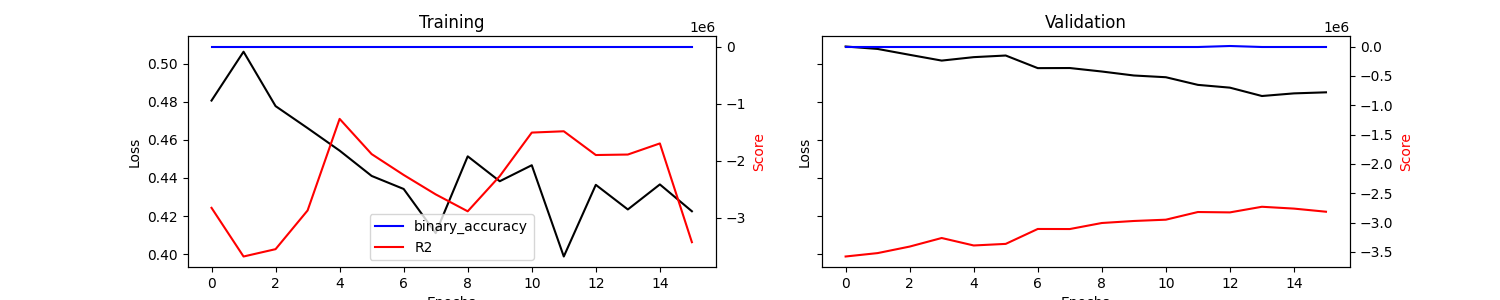
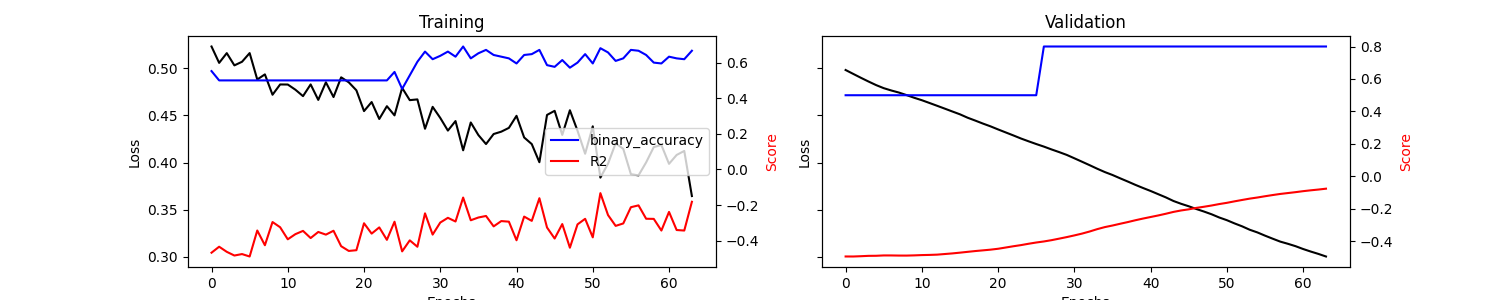
update

diff --git a/gen_training_data.py b/gen_training_data.py
@@ -6,10 +6,11 @@ import networkx as nx
 from sklearn.metrics import explained_variance_score
 from tensorflow.keras import models, layers, utils, backend as K
 import tensorflow.keras
+import tensorflow as tf
 import matplotlib.pyplot as plt
 import matplotlib.cm as cmap
 import shap
-
+import random
 
 def readData(datafiles={}):
     """
@@ -139,19 +140,20 @@ def experimentPartOneWrapper():
     #print(targetdata)
     return concatDF, splitDF, inputdata, targetdata
 
-'''
-Use shap to build an explainer.
-:parameter
-    :param model: model instance (after fitting)
-    :param X_names: list
-    :param X_instance: array of size n x 1 (n,)
-    :param X_train: array - if None the model is simple machine learning, if not None then it's a deep learning model
-    :param task: string - "classification", "regression"
-    :param top: num - top features to display
-:return
-    dtf with explanations
-'''
+
 def explainer_shap(model, X_names, X_instance, X_train=None, task="classification", top=10):
+    '''
+    Use shap to build an explainer.
+    :parameter
+        :param model: model instance (after fitting)
+        :param X_names: list
+        :param X_instance: array of size n x 1 (n,)
+        :param X_train: array - if None the model is simple machine learning, if not None then it's a deep learning model
+        :param task: string - "classification", "regression"
+        :param top: num - top features to display
+    :return
+        dtf with explanations
+    '''
     ## create explainer
     ### machine learning
     if X_train is None:
@@ -172,13 +174,13 @@ def explainer_shap(model, X_names, X_instance, X_train=None, task="classificatio
         shap.waterfall_plot(explainer.expected_value[0], shap_values, 
                             features=X_instance, feature_names=X_names, max_display=top)
 
-# define metrics
 def R2(y, y_hat):
     ss_res = K.sum(K.square(y - y_hat))
     ss_tot = K.sum(K.square(y - K.mean(y)))
     return 1 - ss_res / (ss_tot + K.epsilon())
 
-if __name__ == "__main__":
+def experimentPartTwoWrapper():
+    """Simple perceptron"""
     # prepare data
     concatDF, splitDF, inputdata, targetdata = experimentPartOneWrapper()
     # prepare network
@@ -346,3 +348,159 @@ if __name__ == "__main__":
     for tn in answers.keys():
         if sum(answers[tn][2]) > 0:
             print(answers[tn])
+
+def xorTutorial():
+    import tensorflow.compat.v1 as tf
+    tf.disable_v2_behavior()
+    # input X vector
+    X = [[0, 0], [0, 1], [1, 0], [1, 1]]
+    # output Y vector
+    Y = [[0], [1], [1], [0]]
+    
+    # Placeholders for input and output
+    x = tf.placeholder(tf.float32, shape=[4,2])
+    y = tf.placeholder(tf.float32, shape=[4,1])
+    
+    # W matrix
+    W1 = tf.Variable([[1.0, 0.0], [1.0, 0.0]], shape=[2,2])
+    W2 = tf.Variable([[0.0], [1.0]], shape=[2,1])
+    
+    # Biases
+    B1 = tf.Variable([0.0, 0.0], shape=[2])
+    B2 = tf.Variable([0.0], shape=1)
+    
+    # Hidden layer and outout layer
+    output =tf.sigmoid(tf.matmul(tf.sigmoid(tf.matmul(x, W1) + B1), W2) + B2)
+    
+    # error estimation
+    e = tf.reduce_mean(tf.squared_difference(y, output))
+    train = tf.train.GradientDescentOptimizer(0.1).minimize(e)
+    
+    init = tf.global_variables_initializer()
+    sess = tf.Session()
+    sess.run(init)
+    
+    for i in range (100001):
+        error = sess.run(train, feed_dict={x: X, y: Y})
+        if i % 10000 == 0:
+            print('\nEpoch: ' + str(i))
+            print('\nError: ' + str(sess.run(e, feed_dict={x: X, y: Y})))
+            for el in sess.run(output, feed_dict={x: X, y: Y}):
+                print('    ',el)
+    sess.close()
+    
+    print ("Complete")
+
+
+def xorDeepNN():
+    import numpy as np
+    # input X vector
+    X1 = pd.DataFrame(np.repeat(np.array([[0, 0], [0, 1], [1, 0], [1, 1]]), 100, axis = 0))
+    print(X1)
+    # output Y vector
+    Y1 = pd.DataFrame(np.repeat(np.array([[0], [1], [1], [0]]), 100, axis =  0))
+    print(Y1)
+    model = models.Sequential(name="DeepNN", layers=[
+    ### hidden layer 1
+    layers.Dense(name="h1", input_dim=2,
+                units=int(2), 
+                activation='relu'),
+    layers.Dropout(name="drop1", rate=0.2),
+    ### hidden layer 2
+    layers.Dense(name="h2", units=int(1), 
+                activation='linear'),
+    layers.Dropout(name="drop2", rate=0.2),
+    
+    ### layer output
+    layers.Dense(name="output", units=1, activation='sigmoid')
+    ])
+    model.summary()
+    
+    # compile the neural network
+    model.compile(
+        optimizer="adam",
+        loss="mean_absolute_error",
+        metrics=[
+            #tensorflow.keras.metrics.AUC(),
+            #tensorflow.keras.metrics.FalsePositives(),
+            #tensorflow.keras.metrics.FalseNegatives(),
+            tensorflow.keras.metrics.BinaryAccuracy(),
+            R2,
+            #tensorflow.keras.metrics.Recall(),
+        ],
+    )
+    n_samples = len(X1)
+    trainingSamples = random.sample(range(0, n_samples), floor(3*n_samples/4))
+    testSamples = list(set(range(0,n_samples)).difference(set(trainingSamples)))
+    X = X1.iloc[trainingSamples]
+    y = Y1.iloc[trainingSamples]
+    training = model.fit(
+        x=X, y=y, batch_size=10, epochs=64, shuffle=False, verbose=0, validation_split=0.3
+    )
+
+    # plot
+    metrics = [
+        k for k in training.history.keys() if ("loss" not in k) and ("val" not in k)
+    ]
+    fig, ax = plt.subplots(nrows=1, ncols=2, sharey=True, figsize=(15, 3))
+
+    ## training
+    ax[0].set(title="Training")
+    ax11 = ax[0].twinx()
+    ax[0].plot(training.history["loss"], color="black")
+    ax[0].set_xlabel("Epochs")
+    ax[0].set_ylabel("Loss", color="black")
+    colors = ["blue", "red", "orange"]
+    i = 0
+    for metric in metrics:
+        color = colors[i]
+        i = i + 1
+        ax11.plot(training.history[metric], label=metric, color = color)
+    ax11.set_ylabel("Score", color="red")
+    ax11.legend()
+
+    ## validation
+    i = 0
+    ax[1].set(title="Validation")
+    ax22 = ax[1].twinx()
+    ax[1].plot(training.history["val_loss"], color="black")
+    ax[1].set_xlabel("Epochs")
+    ax[1].set_ylabel("Loss", color="black")
+    for metric in metrics:
+        ax22.plot(training.history["val_" + metric], label=metric, color=colors[i])
+        i = i + 1
+    ax22.set_ylabel("Score", color="red")
+    ax11.legend()
+    plt.savefig("temp.png")
+    plt.close()
+
+    ## explainer_shap(model, upstream, X, X_train=X, task="regression", top=10)
+    from numpy import argmax
+    test_predictions = argmax(model.predict(X1.iloc[testSamples]),axis=-1).flatten()
+
+    a = plt.axes(aspect='equal')
+    plt.scatter(Y1.iloc[testSamples], test_predictions)
+    plt.xlabel('True Values')
+    plt.ylabel('Predictions')
+    lims = [0, 1]
+    plt.xlim(lims)
+    plt.ylim(lims)
+    plt.savefig('temp2.png')
+
+    print(test_predictions)
+    #print(testTarget.iloc[testSamples])
+    #print(len(testTarget.iloc[testSamples]))
+    answer = Y1.iloc[testSamples]
+    answer = answer.iloc[:,0]
+    answer = answer.to_list()
+    print(answer)
+    print(len(answer))
+    print(sum([1 if i == j else 0 for i, j in zip(test_predictions,answer)]))
+
+
+if __name__ == "__main__":
+    # prepare data
+    concatDF, splitDF, inputdata, targetdata = experimentPartOneWrapper()
+    # prepare network
+    testNet = nx.read_graphml("large_hif1Agraph.graphml")
+    
